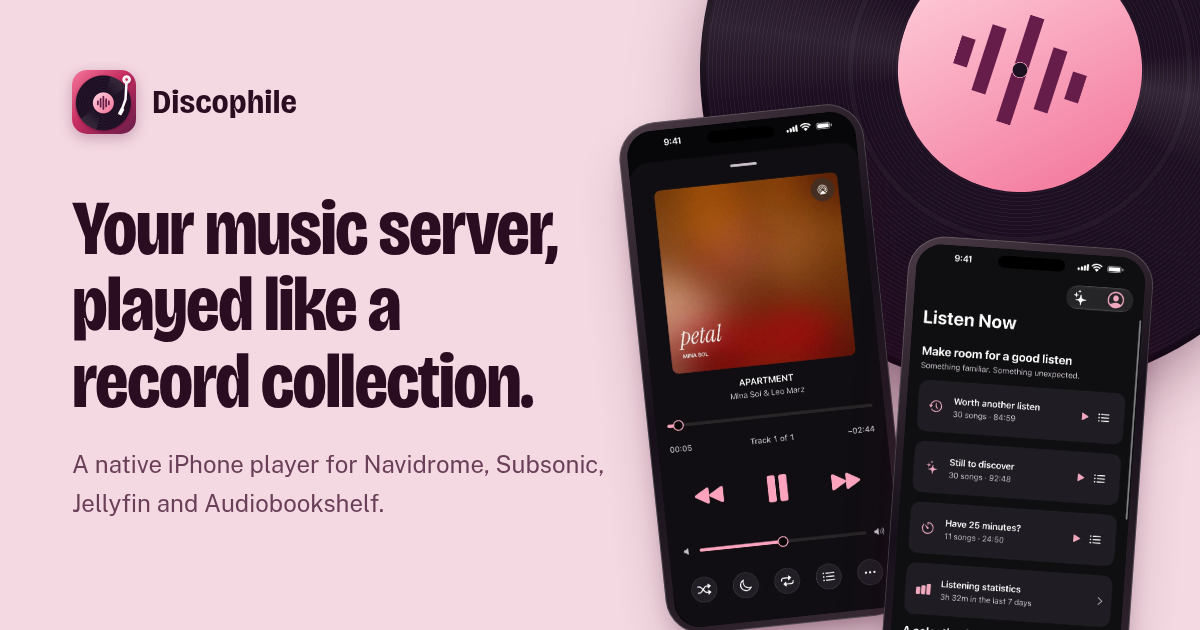
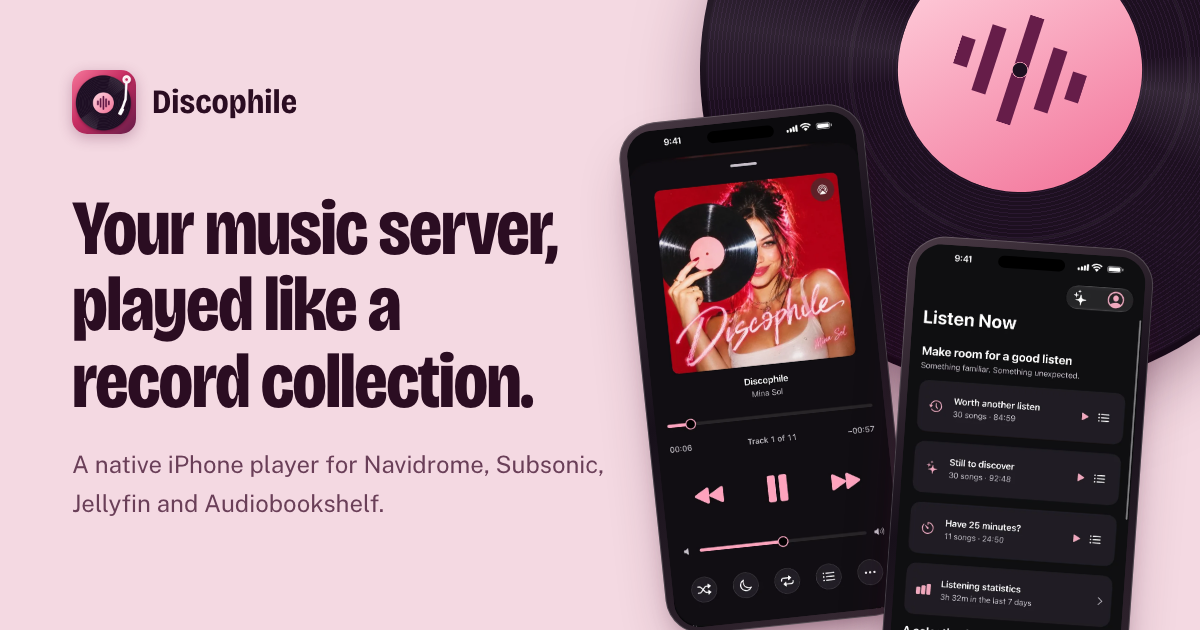
Show the Discophile cover in the social preview image
The Open Graph image still showed the old Now Playing screen. Regenerated it from tools/og-source.html, which
also lost the record because .record had no height once inset was reset. The image URL carries ?v=2 so apps
that cached the old preview fetch the new one.

diff --git a/site/tools/og-source.html b/site/tools/og-source.html
@@ -10,7 +10,7 @@
   .og-brand img { width: 64px; height: 64px; border-radius: 15px; box-shadow: 0 4px 14px rgb(102 29 73 / .3); }
   .og h1 { font-size: 78px; margin: 56px 0 26px; }
   .og p { font-size: 24px; color: var(--ink-soft); margin: 0; }
-  .og .record { inset: auto; width: 640px; left: 700px; top: -250px; animation: none; rotate: 18deg; }
+  .og .record { inset: auto; width: 640px; height: 640px; left: 700px; top: -250px; animation: none; rotate: 18deg; }
   .og .phone { position: absolute; width: 230px; }
   .og .p1 { left: 650px; top: 120px; rotate: -6deg; }
   .og .p2 { left: 900px; top: 250px; rotate: 4deg; }

diff --git a/site/components/RootShell.tsx b/site/components/RootShell.tsx
@@ -48,9 +48,9 @@ export function rootMetadata(locale: Locale): Metadata {
       url: path,
       title: c.title,
       description: c.ogDescription,
-      images: [{ url: "/assets/og.png", width: 1200, height: 630, alt: c.ogAlt }],
+      images: [{ url: "/assets/og.png?v=2", width: 1200, height: 630, alt: c.ogAlt }],
     },
-    twitter: { card: "summary_large_image", title: c.title, description: c.twitterDescription, images: ["/assets/og.png"] },
+    twitter: { card: "summary_large_image", title: c.title, description: c.twitterDescription, images: ["/assets/og.png?v=2"] },
   };
 }
 
